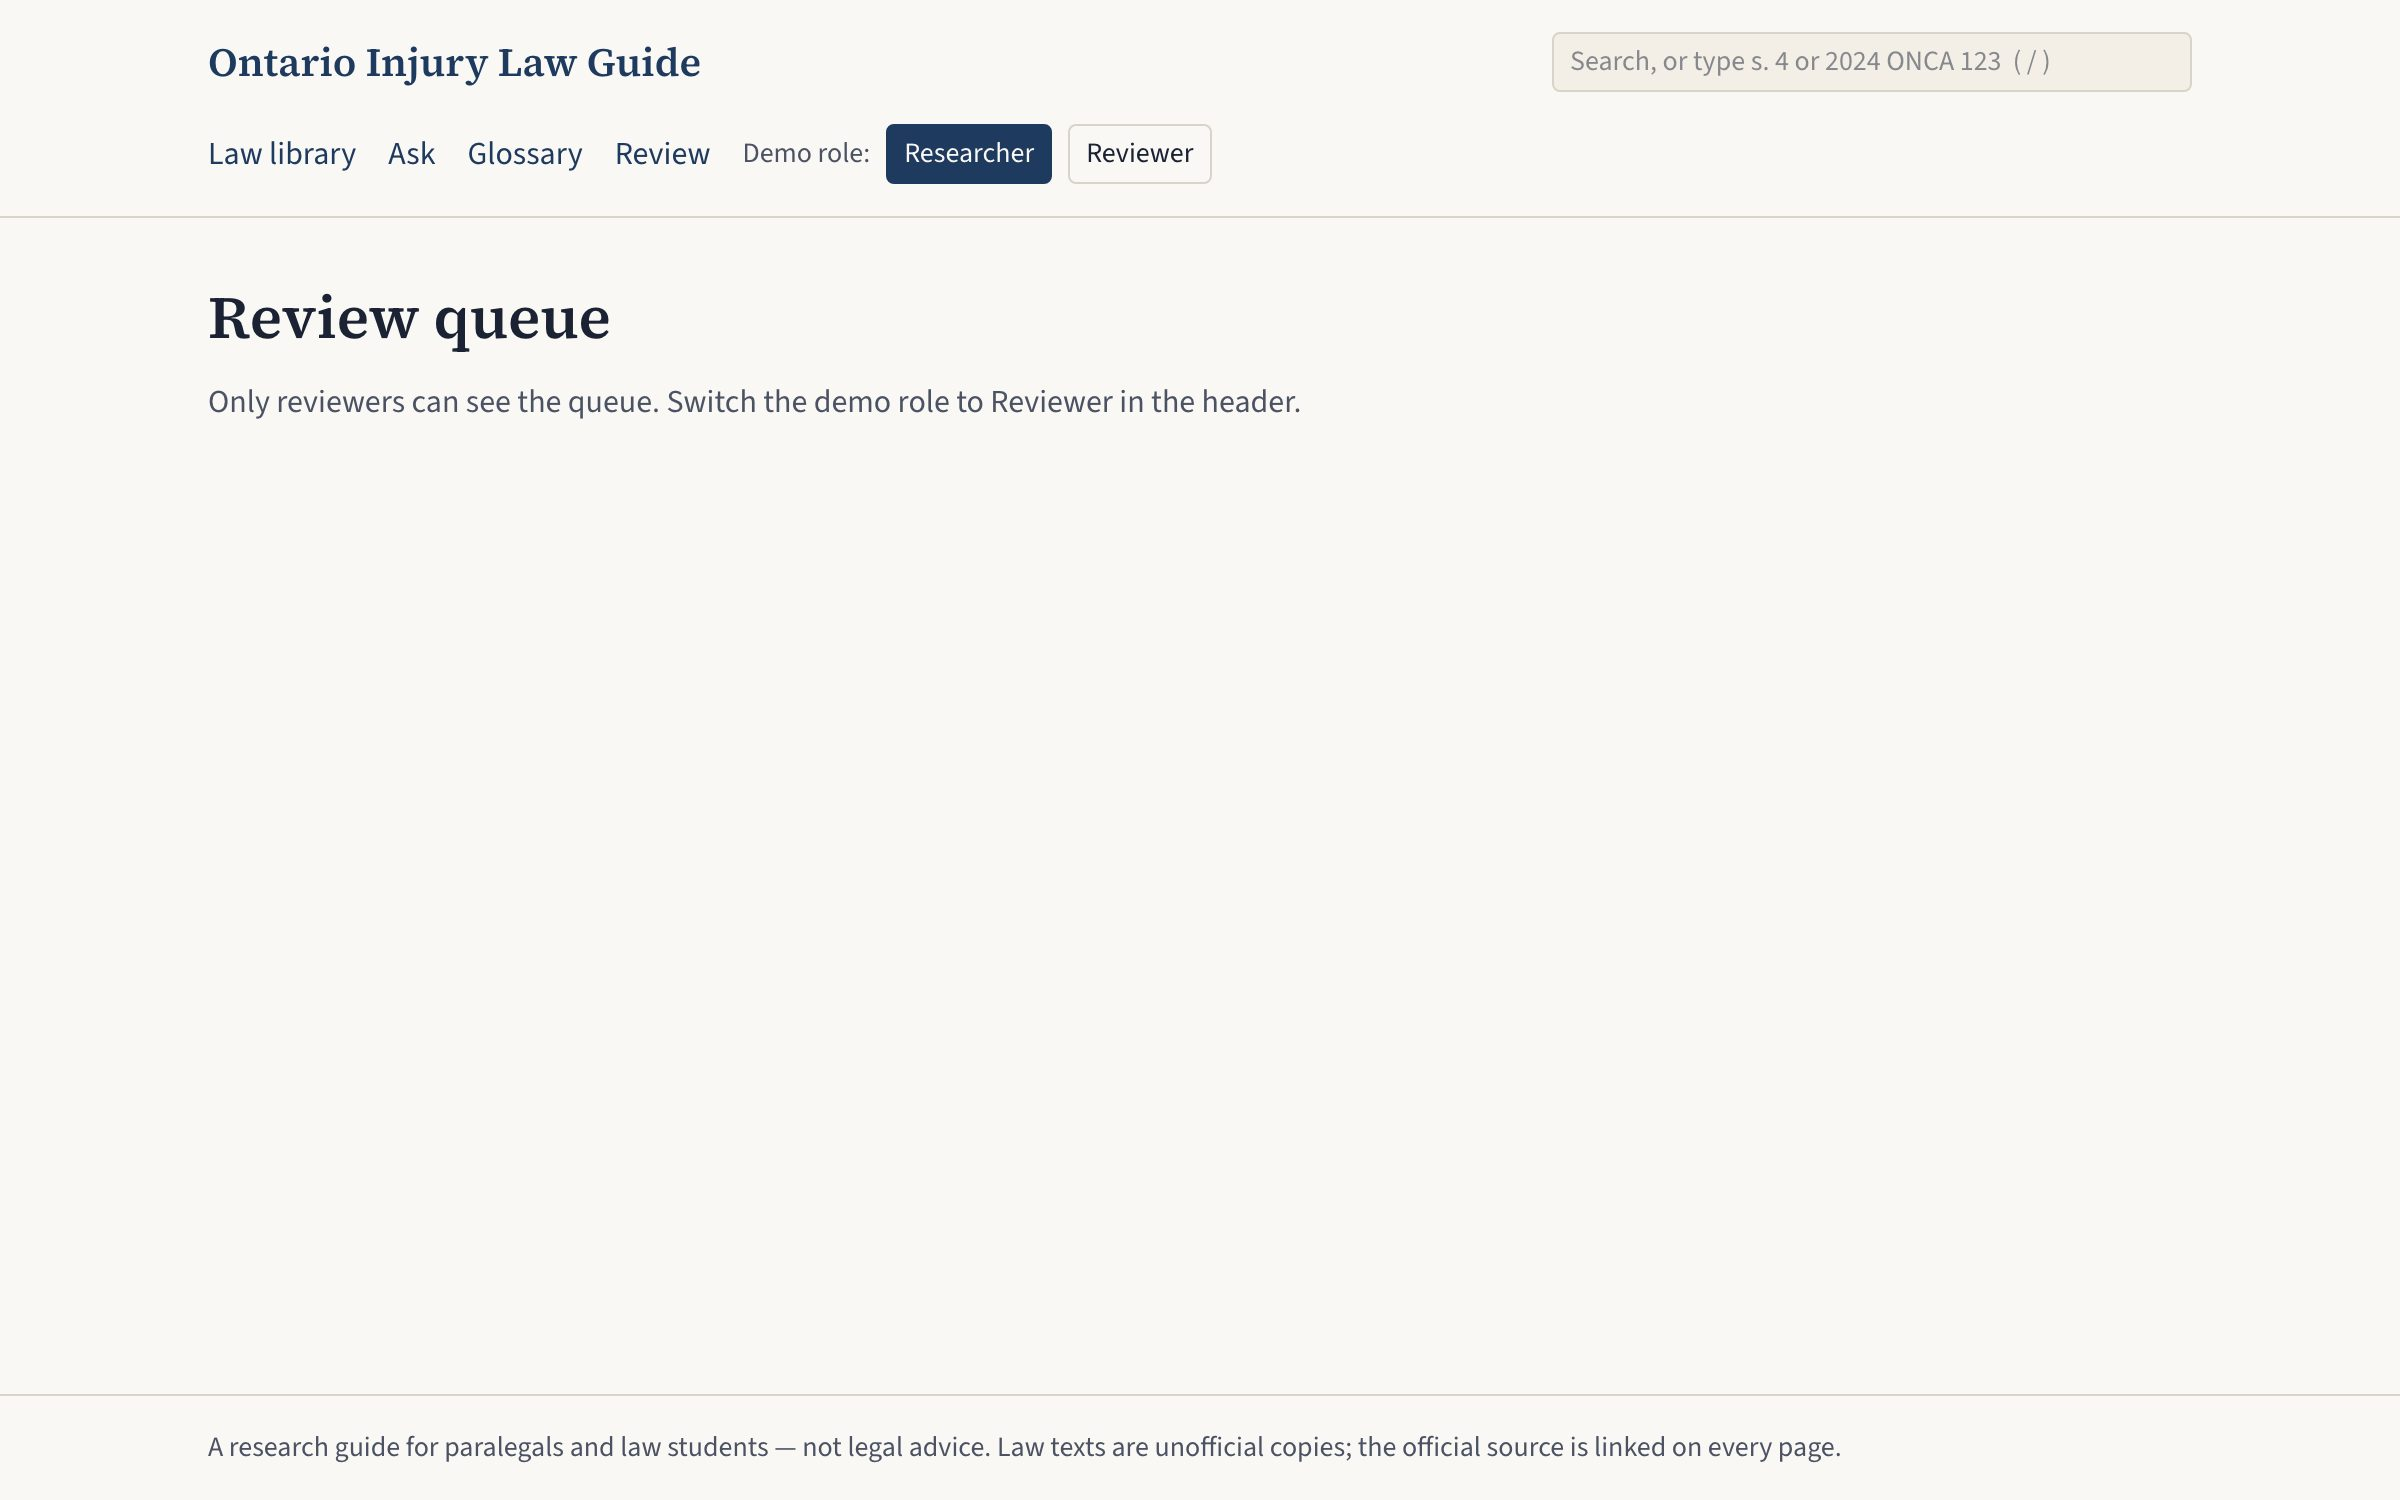
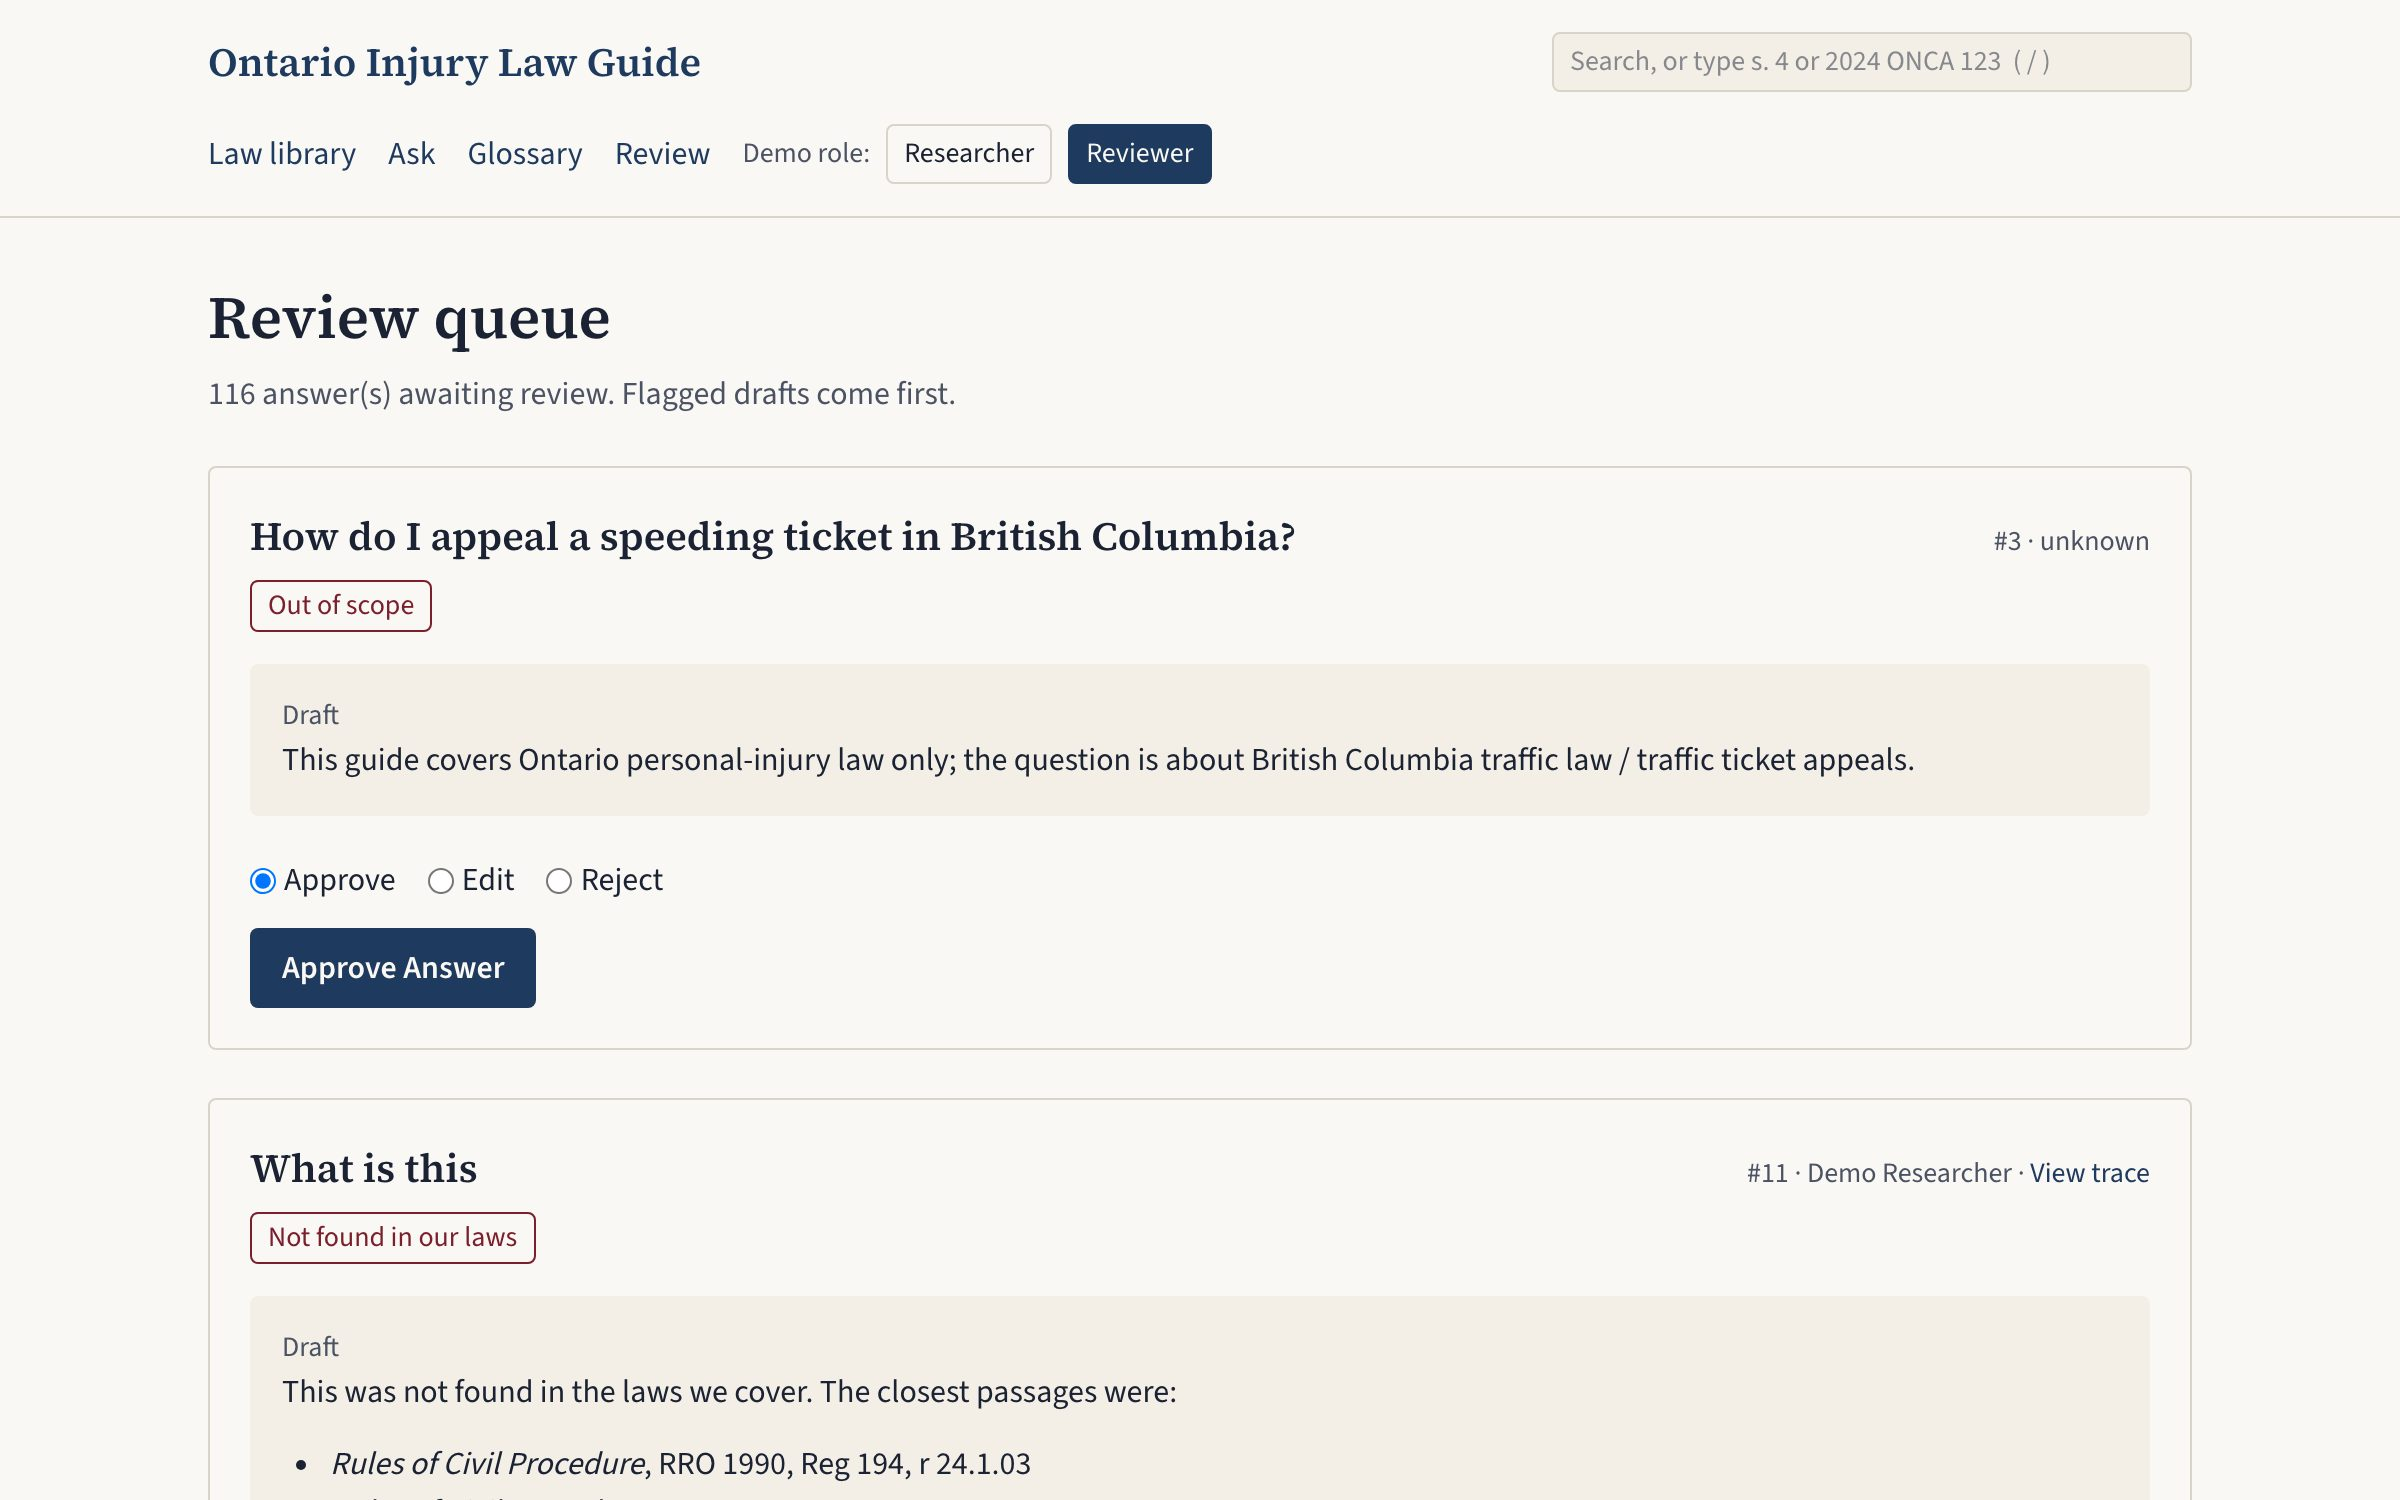
docs: review screenshot as reviewer; record validation

diff --git a/docs/iterations.md b/docs/iterations.md
@@ -5,7 +5,7 @@ One entry per iteration, newest first. Format: date · milestone · what changed
 ## 2026-09-26 · Repo presentation · README header, screenshots, guarantees table
 
 - **What:** README gets a light/dark logo (`docs/logo*.svg`), badges (live CI, stack, eval numbers, licence), section nav, three real screenshots (`docs/img/`, Playwright at 2x against the dev DB), a "What keeps an answer honest" table linking each guarantee to the code and test that enforce it, and a Mermaid pipeline diagram. MIT `LICENSE` for the code (data keeps upstream licences). Modelled on YichiZ/toronto-3djs.
-- **Validated:** README rendered on GitHub (logo swaps with theme, Mermaid renders, all relative links resolve).
+- **Validated:** README rendered through the GitHub Markdown API with the relative images: logo, badges, screenshots and the guarantees table display correctly. The CI badge and Mermaid diagram only render on github.com, and the repo is private, so neither was seen rendered.
 - **Next:** GitHub description, topics and social preview image are repo settings, not files → set by the owner.
 
 ## 2026-09-26 · Phase 6 · 6.2 Add to corpus, 6.3 Load test; Phase 5 decision summaries done
